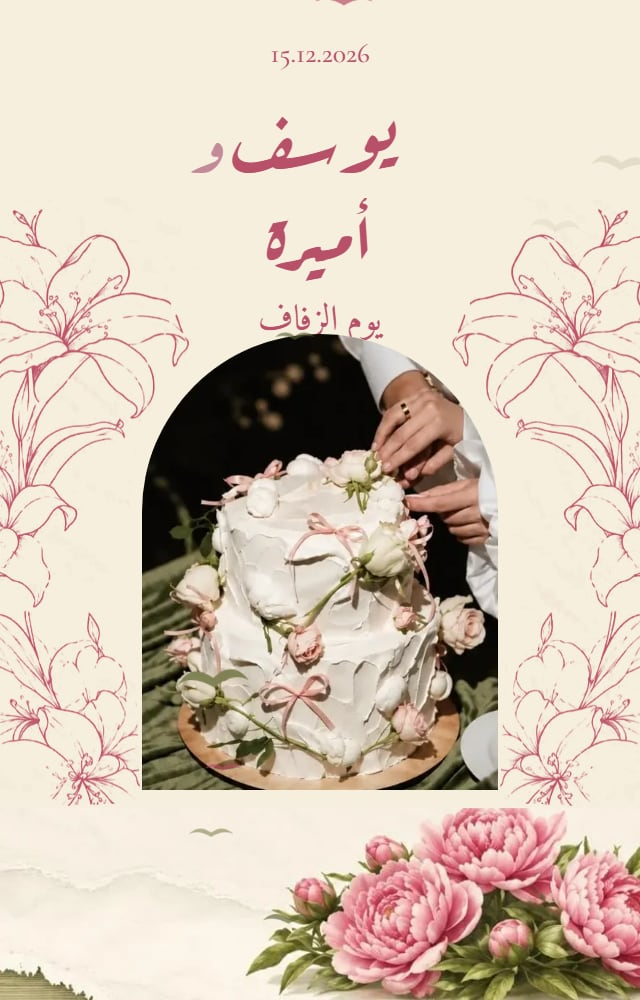
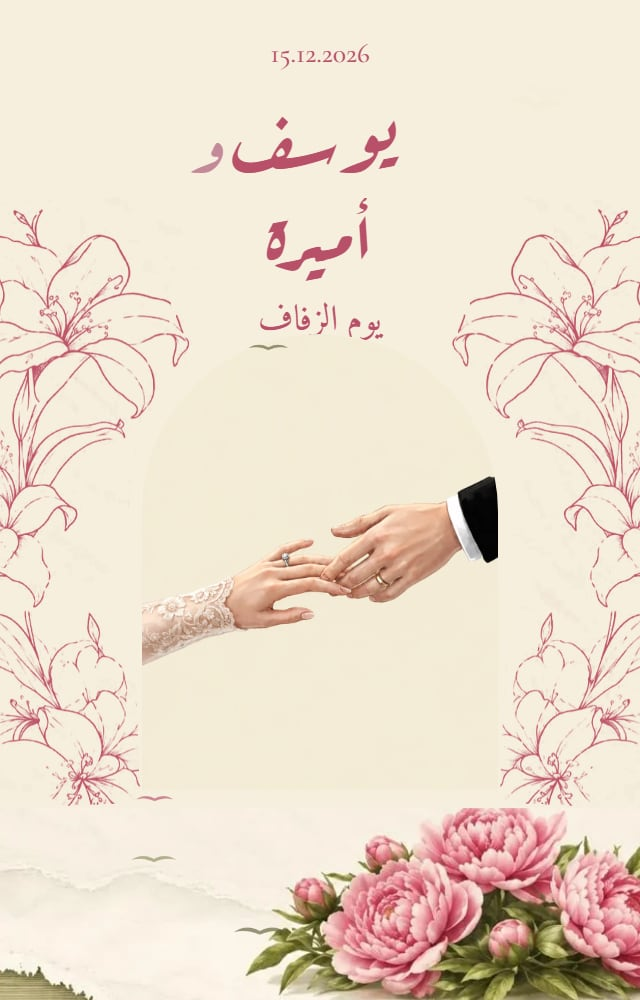
Lily Garden: كل كلمة قابلة للتعديل + صورة الإيدين افتراضية + العداد بيتعدّل بالضغط
- صورة القوس الافتراضية: الإيدين (بدل التورتة)
- كارت الدعوة سطر سطر: كل سطر بيتعدّل لوحده (We invite you / to celebrate / ...)
- العداد: الضغط على الأرقام بيفتح تاريخ وساعة الفرح، والكلام تحتها (Days…) بيتعدّل
- فورم الحضور وقسم الصور: كل كلمة بتتعدّل بالضغط عليها؛ الضغط على الخانات بيفتح بانل الفورم زي ما كان
- الزراير اللي جواها كلام بقت div — المسافة جوه <button> كانت بتقطع الكتابة في المحرر
- المحرر: استثناء #mithaq-rsvp للكلام القابل للتعديل (Ivory Swans مبتتأثرش)

Claude-Session: https://claude.ai/code/session_01V3w9EGxhRcLj3L1x3BQSg9

diff --git a/views/lily-garden.html b/views/lily-garden.html
@@ -1319,6 +1319,7 @@
                 #wg-invite-2 .fam { font-size: 4.6cqw; letter-spacing: .06em; margin-top: 2.4cqw; font-weight: 500; }
                 #wg-invite-2 .body { font-size: 4.3cqw; letter-spacing: .05em; line-height: 1.5; margin-top: 7cqw; font-weight: 500; }
                 #wg-invite-2 .big-date { font-size: 12.5cqw; margin-top: 6cqw; }
+                #wg-invite-2 .wg-line { display: block; margin: 0; }
                 #wg-invite-2 .end { font-size: 3.6cqw; letter-spacing: .04em; line-height: 1.5; margin-top: 5cqw; font-weight: 500; }
 
                 /* ===== الصفحة 3 ===== */
@@ -1393,7 +1394,9 @@
                     box-shadow: 0 10px 22px -10px rgba(85,88,47,.7); transition: background .25s ease, transform .2s ease, opacity .2s ease; -webkit-tap-highlight-color: transparent; }
                 .wg-btn:hover { background: var(--rose); }
                 .wg-btn:active { transform: scale(.98); }
-                .wg-btn:disabled { opacity: .6; cursor: default; }
+                .wg-btn:disabled, .wg-btn[aria-disabled="true"] { opacity: .6; cursor: default; pointer-events: none; }
+                .wg-btn:focus-visible { outline: 2px solid var(--rose); outline-offset: 3px; }
+                .wg-btn { user-select: none; -webkit-user-select: none; }
                 .wg-btn svg { width: 18px; height: 18px; }
                 .wg-err { min-height: 18px; margin: 10px 2px 0; font: 600 14px/1.5 'Cormorant Garamond', 'Amiri', Georgia, serif; color: #b03a3a; text-align: center; }
                 .wg-done { display: none; text-align: center; padding: 6px 4px 2px; }
@@ -1524,7 +1527,7 @@
                     <p class="wg-abs wg-caps date" data-elem-id="lg1" data-wg="date">23.10.2026</p>
                     <h1 class="wg-abs wg-script names"><span class="amp" data-elem-id="lg2" data-wg="name1">Eslam</span><span class="second" data-elem-id="lg3" data-wg="name2">Amira</span></h1>
                     <p class="wg-abs wg-caps wday" data-elem-id="lg4" data-wg="wday">Wedding Day</p>
-                    <div class="arch"><img data-elem-id="lg5" src="/templates/lily-garden/cake.webp" alt="" decoding="async" fetchpriority="high" width="487" height="629"/></div>
+                    <div class="arch"><img data-elem-id="lg5" src="/templates/lily-garden/hands.webp" alt="" decoding="async" fetchpriority="high" width="941" height="1672"/></div>
                 </section>
 
                 <!-- ===== الصفحة 2 ===== -->
@@ -1533,9 +1536,19 @@
                     <div class="card">
                         <p class="wg-script dear" data-elem-id="lg9" data-wg="dear" data-wg-reveal>Dear</p>
                         <p class="wg-caps fam" data-elem-id="lg10" data-wg="fam" data-wg-reveal>Friends &amp; Family!</p>
-                        <p class="wg-caps body" data-elem-id="lg11" data-wg="body" data-wg-reveal>We invite you<br/>to celebrate<br/>the most special day<br/>in our lives &ndash;<br/>our wedding!</p>
+                        <div class="wg-caps body" data-wg-reveal>
+                            <p class="wg-line" data-elem-id="lg40" data-wg="body1">We invite you</p>
+                            <p class="wg-line" data-elem-id="lg41" data-wg="body2">to celebrate</p>
+                            <p class="wg-line" data-elem-id="lg42" data-wg="body3">the most special day</p>
+                            <p class="wg-line" data-elem-id="lg43" data-wg="body4">in our lives &ndash;</p>
+                            <p class="wg-line" data-elem-id="lg44" data-wg="body5">our wedding!</p>
+                        </div>
                         <p class="wg-script big-date" data-elem-id="lg12" data-wg="date" data-wg-reveal>23.10.2026</p>
-                        <p class="wg-caps end" data-elem-id="lg13" data-wg="end" data-wg-reveal>We will be so happy<br/>to share this unforgettable day<br/>with you!</p>
+                        <div class="wg-caps end" data-wg-reveal>
+                            <p class="wg-line" data-elem-id="lg45" data-wg="end1">We will be so happy</p>
+                            <p class="wg-line" data-elem-id="lg46" data-wg="end2">to share this unforgettable day</p>
+                            <p class="wg-line" data-elem-id="lg47" data-wg="end3">with you!</p>
+                        </div>
                     </div>
                 </section>
 
@@ -1555,10 +1568,10 @@
                     <h2 class="wg-script until" data-elem-id="lg19" data-wg="until" data-wg-reveal>Until our special day</h2>
                     <svg class="cd-orn" viewBox="0 0 160 14" fill="none" aria-hidden="true"><path d="M2 7h58M100 7h58" stroke="#c9a46a" stroke-width="1"/><path d="M80 1.5c3 2.7 3 8.3 0 11-3-2.7-3-8.3 0-11Z" fill="#b9506a"/><circle cx="68" cy="7" r="1.6" fill="#c9a46a"/><circle cx="92" cy="7" r="1.6" fill="#c9a46a"/></svg>
                     <div id="wg-countdown" role="timer" aria-label="Countdown to the wedding" data-wg-reveal>
-                        <div class="wg-cd-block"><span class="wg-cd-num" id="wg-cd-d">00</span><span class="wg-cd-label" data-wg-cd="days">Days</span></div>
-                        <div class="wg-cd-block"><span class="wg-cd-num" id="wg-cd-h">00</span><span class="wg-cd-label" data-wg-cd="hours">Hours</span></div>
-                        <div class="wg-cd-block"><span class="wg-cd-num" id="wg-cd-m">00</span><span class="wg-cd-label" data-wg-cd="minutes">Mins</span></div>
-                        <div class="wg-cd-block"><span class="wg-cd-num" id="wg-cd-s">00</span><span class="wg-cd-label" data-wg-cd="seconds">Secs</span></div>
+                        <div class="wg-cd-block"><span class="wg-cd-num" id="days" data-elem-id="lg50">00</span><span class="wg-cd-label" data-elem-id="lg54" data-wg-cd="days">Days</span></div>
+                        <div class="wg-cd-block"><span class="wg-cd-num" id="hours" data-elem-id="lg51">00</span><span class="wg-cd-label" data-elem-id="lg55" data-wg-cd="hours">Hours</span></div>
+                        <div class="wg-cd-block"><span class="wg-cd-num" id="minutes" data-elem-id="lg52">00</span><span class="wg-cd-label" data-elem-id="lg56" data-wg-cd="minutes">Mins</span></div>
+                        <div class="wg-cd-block"><span class="wg-cd-num" id="seconds" data-elem-id="lg53">00</span><span class="wg-cd-label" data-elem-id="lg57" data-wg-cd="seconds">Secs</span></div>
                     </div>
                     <p class="wg-script cd-done" data-wg="cdDone">The celebration has begun</p>
                 </section>
@@ -1576,55 +1589,55 @@
 
                 <!-- ===== تأكيد الحضور ===== -->
                 <section id="mithaq-rsvp" class="wg-panel" aria-labelledby="mrsvp-title">
-                    <p class="wg-eyebrow" data-wg="rsvpEyebrow">R.S.V.P</p>
-                    <h2 class="wg-ptitle" id="mrsvp-title">Will you join us?</h2>
-                    <p class="wg-pintro" id="mrsvp-intro">Kindly let us know if you can make it.</p>
+                    <p class="wg-eyebrow" data-elem-id="lg60" data-wg="rsvpEyebrow">R.S.V.P</p>
+                    <h2 class="wg-ptitle" id="mrsvp-title" data-elem-id="lg61">Will you join us?</h2>
+                    <p class="wg-pintro" id="mrsvp-intro" data-elem-id="lg62">Kindly let us know if you can make it.</p>
                     <div class="wg-card" data-wg-reveal>
                         <form id="mrsvp-form" novalidate="">
                             <label class="wg-field">
-                                <span class="wg-field-label" id="mrsvp-name-lbl">Your name</span>
+                                <span class="wg-field-label" id="mrsvp-name-lbl" data-elem-id="lg63">Your name</span>
                                 <input class="wg-input" type="text" id="mrsvp-name" maxlength="80" autocomplete="name"/>
                             </label>
                             <div class="wg-choice" role="radiogroup">
-                                <label id="mrsvp-yes-lbl"><input type="radio" name="mrsvp-att" value="yes"/><svg viewBox="0 0 24 24" fill="none" stroke="currentColor" stroke-width="1.6" stroke-linecap="round" stroke-linejoin="round"><path d="M12 20.5s-7.5-4.6-7.5-10.1A4.4 4.4 0 0 1 12 7.6a4.4 4.4 0 0 1 7.5 2.8c0 5.5-7.5 10.1-7.5 10.1Z"/></svg><span>Joyfully accepts</span></label>
-                                <label id="mrsvp-no-lbl"><input type="radio" name="mrsvp-att" value="no"/><svg viewBox="0 0 24 24" fill="none" stroke="currentColor" stroke-width="1.6" stroke-linecap="round" stroke-linejoin="round"><path d="M7 14.5c1.3-1.3 3-2 5-2s3.7.7 5 2"/><circle cx="12" cy="12" r="9"/><path d="M9 9.5h.01M15 9.5h.01"/></svg><span>Regretfully declines</span></label>
+                                <label id="mrsvp-yes-lbl"><input type="radio" name="mrsvp-att" value="yes"/><svg viewBox="0 0 24 24" fill="none" stroke="currentColor" stroke-width="1.6" stroke-linecap="round" stroke-linejoin="round"><path d="M12 20.5s-7.5-4.6-7.5-10.1A4.4 4.4 0 0 1 12 7.6a4.4 4.4 0 0 1 7.5 2.8c0 5.5-7.5 10.1-7.5 10.1Z"/></svg><span data-elem-id="lg64">Joyfully accepts</span></label>
+                                <label id="mrsvp-no-lbl"><input type="radio" name="mrsvp-att" value="no"/><svg viewBox="0 0 24 24" fill="none" stroke="currentColor" stroke-width="1.6" stroke-linecap="round" stroke-linejoin="round"><path d="M7 14.5c1.3-1.3 3-2 5-2s3.7.7 5 2"/><circle cx="12" cy="12" r="9"/><path d="M9 9.5h.01M15 9.5h.01"/></svg><span data-elem-id="lg65">Regretfully declines</span></label>
                             </div>
                             <label class="wg-field">
-                                <span class="wg-field-label" id="mrsvp-note-lbl">A message for the couple</span>
+                                <span class="wg-field-label" id="mrsvp-note-lbl" data-elem-id="lg66">A message for the couple</span>
                                 <textarea class="wg-input" id="mrsvp-note" maxlength="200"></textarea>
                             </label>
-                            <button type="submit" class="wg-btn" id="mrsvp-submit">Send</button>
+                            <div role="button" tabindex="0" class="wg-btn" id="mrsvp-submit"><span id="mrsvp-submit-txt" data-elem-id="lg67">Send</span></div>
                             <p class="wg-err" id="mrsvp-err" role="alert"></p>
                         </form>
                         <div class="wg-done" id="mrsvp-done">
                             <div class="wg-done-mark"><svg viewBox="0 0 24 24" fill="none" stroke="currentColor" stroke-width="2" stroke-linecap="round" stroke-linejoin="round"><path d="M5 12.5l4.5 4.5L19 7.5"/></svg></div>
-                            <h3 id="mrsvp-done-title">Thank you</h3>
-                            <p id="mrsvp-done-msg">Your response has been received.</p>
+                            <h3 id="mrsvp-done-title" data-elem-id="lg68">Thank you</h3>
+                            <p id="mrsvp-done-msg" data-elem-id="lg69">Your response has been received.</p>
                         </div>
                     </div>
                 </section>
 
                 <!-- ===== صور الضيوف ===== -->
                 <section id="mithaq-photos" class="wg-panel" aria-labelledby="wgp-title">
-                    <p class="wg-eyebrow" data-wg="photosEyebrow">Our album</p>
-                    <h2 class="wg-ptitle" id="wgp-title" data-wg="photosTitle">Share the moments</h2>
-                    <p class="wg-pintro" data-wg="photosIntro">Took photos at our celebration? Add them here so we can keep every beautiful moment.</p>
+                    <p class="wg-eyebrow" data-elem-id="lg70" data-wg="photosEyebrow">Our album</p>
+                    <h2 class="wg-ptitle" id="wgp-title" data-elem-id="lg71" data-wg="photosTitle">Share the moments</h2>
+                    <p class="wg-pintro" data-elem-id="lg72" data-wg="photosIntro">Took photos at our celebration? Add them here so we can keep every beautiful moment.</p>
                     <div class="wg-card" data-wg-reveal>
                         <div class="wgp-actions">
                             <label class="wg-field" id="wgp-name-wrap">
-                                <span class="wg-field-label" data-wg="photosName">Your name</span>
+                                <span class="wg-field-label" data-elem-id="lg73" data-wg="photosName">Your name</span>
                                 <input class="wg-input" type="text" id="wgp-name" maxlength="60" autocomplete="name"/>
                             </label>
                             <input class="wgp-file" type="file" id="wgp-file" accept="image/jpeg,image/png,image/webp,image/heic,image/heif,image/*" multiple/>
-                            <button type="button" class="wg-btn" id="wgp-add"><svg viewBox="0 0 24 24" fill="none" stroke="currentColor" stroke-width="1.8" stroke-linecap="round" stroke-linejoin="round"><path d="M4 8.5A2.5 2.5 0 0 1 6.5 6h1.7l1.3-2h5l1.3 2h1.7A2.5 2.5 0 0 1 20 8.5v9A2.5 2.5 0 0 1 17.5 20h-11A2.5 2.5 0 0 1 4 17.5Z"/><circle cx="12" cy="13" r="3.6"/></svg><span data-wg="photosAdd">Add your photos</span></button>
+                            <div role="button" tabindex="0" class="wg-btn" id="wgp-add"><svg viewBox="0 0 24 24" fill="none" stroke="currentColor" stroke-width="1.8" stroke-linecap="round" stroke-linejoin="round"><path d="M4 8.5A2.5 2.5 0 0 1 6.5 6h1.7l1.3-2h5l1.3 2h1.7A2.5 2.5 0 0 1 20 8.5v9A2.5 2.5 0 0 1 17.5 20h-11A2.5 2.5 0 0 1 4 17.5Z"/><circle cx="12" cy="13" r="3.6"/></svg><span data-elem-id="lg74" data-wg="photosAdd">Add your photos</span></div>
                         </div>
                         <p class="wg-err" id="wgp-err" role="alert"></p>
-                        <p class="wgp-note" id="wgp-note" data-wg="photosNote">Your photos appear here for everyone. You can delete your own photos any time.</p>
+                        <p class="wgp-note" id="wgp-note" data-elem-id="lg75" data-wg="photosNote">Your photos appear here for everyone. You can delete your own photos any time.</p>
                     </div>
                     <p class="wgp-count" id="wgp-count" hidden></p>
                     <div class="wgp-grid" id="wgp-grid"></div>
-                    <p class="wgp-empty" id="wgp-empty" data-wg="photosEmpty" hidden>Be the first to share a moment</p>
-                    <button type="button" class="wg-btn wgp-more" id="wgp-more" hidden><span data-wg="photosMore">Show more</span></button>
+                    <p class="wgp-empty" id="wgp-empty" data-elem-id="lg76" data-wg="photosEmpty" hidden>Be the first to share a moment</p>
+                    <div role="button" tabindex="0" class="wg-btn wgp-more" id="wgp-more" hidden><span data-elem-id="lg77" data-wg="photosMore">Show more</span></div>
                 </section>
 
                 <!-- ===== الختام ===== -->
@@ -1665,9 +1678,9 @@
                 var T = {
                     en: {
                         dear: 'Dear', fam: 'Friends &amp; Family!',
-                        body: ENG ? 'We invite you<br>to celebrate<br>a beautiful beginning<br>in our lives &ndash;<br>our engagement!'
-                                  : 'We invite you<br>to celebrate<br>the most special day<br>in our lives &ndash;<br>our wedding!',
-                        end: 'We will be so happy<br>to share this unforgettable day<br>with you!',
+                        body: ENG ? ['We invite you', 'to celebrate', 'a beautiful beginning', 'in our lives &ndash;', 'our engagement!']
+                                  : ['We invite you', 'to celebrate', 'the most special day', 'in our lives &ndash;', 'our wedding!'],
+                        end: ['We will be so happy', 'to share this unforgettable day', 'with you!'],
                         tv: 'Time &amp; Venue', until: 'Until our special day', cdDone: 'The celebration has begun',
                         cd: { days: 'Days', hours: 'Hours', minutes: 'Mins', seconds: 'Secs' },
                         location: 'Location', directions: 'Get Directions',
@@ -1692,9 +1705,9 @@
                     },
                     ar: {
                         dear: 'أحبابنا', fam: 'الأهل والأصدقاء',
-                        body: ENG ? 'ندعوكم لمشاركتنا<br>بداية أجمل حكاية في حياتنا<br>حفل خطوبتنا'
-                                  : 'ندعوكم لمشاركتنا<br>أسعد أيام عمرنا<br>حفل زفافنا',
-                        end: 'سيكتمل فرحنا بوجودكم<br>ومشاركتكم هذا اليوم الذي لا يُنسى',
+                        body: ENG ? ['ندعوكم لمشاركتنا', 'بداية أجمل حكاية في حياتنا', 'حفل خطوبتنا']
+                                  : ['ندعوكم لمشاركتنا', 'أسعد أيام عمرنا', 'حفل زفافنا'],
+                        end: ['سيكتمل فرحنا بوجودكم', 'ومشاركتكم هذا اليوم الذي لا يُنسى'],
                         tv: 'الموعد والمكان', until: 'باقي على يومنا المميز', cdDone: 'بدأ الاحتفال',
                         cd: { days: 'يوم', hours: 'ساعة', minutes: 'دقيقة', seconds: 'ثانية' },
                         location: 'الموقع', directions: 'اعرف الطريق',
@@ -1736,6 +1749,16 @@
                     });
                 }
                 function pad(n) { return n < 10 ? '0' + n : '' + n; }
+                // زراير div (مش <button>): الضغط + Enter/Space من الكيبورد
+                function onPress(el, fn) {
+                    if (!el) return;
+                    el.addEventListener('click', function (e) { if (el.getAttribute('aria-disabled') === 'true') return; fn(e); });
+                    el.addEventListener('keydown', function (e) {
+                        if (e.target !== el) return; // الكتابة جوه الزرار في المحرر متتأثرش
+                        if (e.key === 'Enter' || e.key === ' ') { e.preventDefault(); if (el.getAttribute('aria-disabled') !== 'true') fn(e); }
+                    });
+                }
+                function setBusy(el, on) { if (el) el.setAttribute('aria-disabled', on ? 'true' : 'false'); }
 
                 /* ---------- البيانات ---------- */
                 var cd = C.countdown || {};
@@ -1762,7 +1785,17 @@
                     if (first) setText('[data-wg="name1"]', first);
                     if (second) setText('[data-wg="name2"]', second);
                     setText('[data-wg="wday"]', L.wday);
-                    ['dear', 'fam', 'body', 'end', 'tv', 'until', 'cdDone', 'location', 'directions', 'rsvpEyebrow',
+                    // سطور الكارت: كل سطر عنصر لوحده (العربي سطوره أقل — اللي ملوش كلام بيستخبى)
+                    [['body', 5], ['end', 3]].forEach(function (pair) {
+                        var lines = L[pair[0]] || [];
+                        for (var i = 1; i <= pair[1]; i++) {
+                            var el = box.querySelector('[data-wg="' + pair[0] + i + '"]');
+                            if (!el) continue;
+                            if (lines[i - 1]) { el.innerHTML = lines[i - 1]; el.style.display = ''; }
+                            else { el.textContent = ''; el.style.display = 'none'; }
+                        }
+                    });
+                    ['dear', 'fam', 'tv', 'until', 'cdDone', 'location', 'directions', 'rsvpEyebrow',
                      'photosEyebrow', 'photosTitle', 'photosIntro', 'photosName', 'photosAdd', 'photosMore', 'photosNote',
                      'photosEmpty', 'photosDownload', 'closing'].forEach(function (k) { setText('[data-wg="' + k + '"]', L[k], true); });
                     setText('[data-wg="venue"]', C.venueName);
@@ -1847,8 +1880,8 @@
                 if (!noCountdown) (function () {
                     var target = Date.parse(C.weddingDateTimeISO || '') || Date.parse('2026-10-23T19:00:00+03:00');
                     var sec4 = document.getElementById('wg-invite-4');
-                    var els = { d: document.getElementById('wg-cd-d'), h: document.getElementById('wg-cd-h'),
-                                m: document.getElementById('wg-cd-m'), s: document.getElementById('wg-cd-s') };
+                    var els = { d: document.getElementById('days'), h: document.getElementById('hours'),
+                                m: document.getElementById('minutes'), s: document.getElementById('seconds') };
                     var last = {};
                     var timer = null;
                     function put(k, v) {
@@ -1879,12 +1912,13 @@
                     var done = document.getElementById('mrsvp-done');
                     var err = document.getElementById('mrsvp-err');
                     var btn = document.getElementById('mrsvp-submit');
+                    var btnTxt = document.getElementById('mrsvp-submit-txt');
                     function lbl(id, v) { var e = document.getElementById(id); if (e && v) e.textContent = v; }
                     lbl('mrsvp-title', OV.title || L.rsvpTitle);
                     lbl('mrsvp-intro', OV.intro || L.rsvpIntro);
                     lbl('mrsvp-name-lbl', OV.nameLabel || L.nameLabel);
                     lbl('mrsvp-note-lbl', OV.foodLabel || L.noteLabel);
-                    lbl('mrsvp-submit', OV.submit || L.submit);
+                    lbl('mrsvp-submit-txt', OV.submit || L.submit);
                     lbl('mrsvp-done-title', L.doneTitle);
                     lbl('mrsvp-done-msg', L.doneMsg);
                     var yes = document.querySelector('#mrsvp-yes-lbl span'), no = document.querySelector('#mrsvp-no-lbl span');
@@ -1898,8 +1932,9 @@
                     if (!C.autoOpen && shortId) {
                         try { if (localStorage.getItem(key)) { showDone(); return; } } catch (e) { /* تصفح خاص */ }
                     }
-                    form.addEventListener('submit', function (ev) {
-                        ev.preventDefault();
+                    form.addEventListener('submit', function (ev) { ev.preventDefault(); send(); });
+                    onPress(btn, function () { send(); });
+                    function send() {
                         var name = (document.getElementById('mrsvp-name').value || '').trim();
                         var att = (form.querySelector('input[name=mrsvp-att]:checked') || {}).value;
                         var note = (document.getElementById('mrsvp-note').value || '').trim();
@@ -1907,20 +1942,20 @@
                         if (!name) { err.textContent = L.errName; return; }
                         if (!att) { err.textContent = L.errAtt; return; }
                         if (!shortId) { err.textContent = L.errPreview; return; }
-                        var label = btn.textContent;
-                        btn.disabled = true; btn.textContent = L.sending;
+                        var label = btnTxt.textContent;
+                        setBusy(btn, true); btnTxt.textContent = L.sending;
                         fetch('/i/' + encodeURIComponent(shortId) + '/rsvp', {
                             method: 'POST', headers: { 'Content-Type': 'application/json' },
                             body: JSON.stringify({ guestName: name, attending: att, note: note })
                         }).then(function (r) { return r.json().catch(function () { return {}; }).then(function (j) { return { ok: r.ok, j: j }; }); })
                           .then(function (res) {
-                              if (!res.ok) { err.textContent = (res.j && res.j.error) || L.errNet; btn.disabled = false; btn.textContent = label; return; }
+                              if (!res.ok) { err.textContent = (res.j && res.j.error) || L.errNet; setBusy(btn, false); btnTxt.textContent = label; return; }
                               try { localStorage.setItem(key, '1'); } catch (e) { /* */ }
                               showDone();
                               done.scrollIntoView({ behavior: 'smooth', block: 'center' });
                           })
-                          .catch(function () { err.textContent = L.errNet; btn.disabled = false; btn.textContent = label; });
-                    });
+                          .catch(function () { err.textContent = L.errNet; setBusy(btn, false); btnTxt.textContent = label; });
+                    }
                 })();
 
                 /* ---------- صور الضيوف ----------
@@ -2083,7 +2118,7 @@
                         });
                     }
 
-                    addBtn.addEventListener('click', function () {
+                    onPress(addBtn, function () {
                         errEl.textContent = '';
                         if (!shortId) { errEl.textContent = L.errPhotoPreview; return; }
                         if (!nameIn.value.trim()) { errEl.textContent = L.errPhotoName; nameIn.focus(); return; }
@@ -2107,7 +2142,7 @@
                             jobs.push({ file: f, ph: ph });
                         });
                         render();
-                        addBtn.disabled = true;
+                        setBusy(addBtn, true);
                         // واحدة ورا التانية: أخف على نت الموبايل في القاعة، والترتيب بيفضل صح
                         var failed = 0;
                         jobs.reduce(function (p, job) {
@@ -2116,12 +2151,12 @@
                                     .then(function (ok) { if (!ok) failed++; });
                             });
                         }, Promise.resolve()).then(function () {
-                            addBtn.disabled = false;
+                            setBusy(addBtn, false);
                             if (failed && !errEl.textContent) errEl.textContent = L.errPhotoFail;
                             render();
                         });
                     });
-                    moreBtn.addEventListener('click', function () { load(true); });
+                    onPress(moreBtn, function () { load(true); });
 
                     /* ---- عرض الصورة كبيرة ---- */
                     var lb = document.getElementById('wgp-lightbox');

diff --git a/client/public/editor-runtime.js b/client/public/editor-runtime.js
@@ -575,6 +575,14 @@
     // بانل تعديل الفورم على اليمين على طول — العميل عايز يعدّل كلام كل مدخل
     // ويشيل مدخلات من هناك، مش يكتب جوه الفورم مباشرة (ده بيكسر تركيبه).
     var rsvpHost = e.target.closest && e.target.closest('#wdaRsvpForm, #rsvpBtn, #mithaq-rsvp');
+    // استثناء: فورم #mithaq-rsvp اللي كلامه عناصر قابلة للتعديل (Lily Garden —
+    // كل كلمة فيه عليها data-elem-id). الضغط على الكلام نفسه بيكتب فيه زي أي
+    // نص، والضغط على باقي الفورم (الخانات/الكارت) بيفتح بانل الفورم زي ما كان.
+    // Ivory Swans كلام فورمها من غير data-elem-id، فمبيتأثرش.
+    if (rsvpHost && rsvpHost.id === 'mithaq-rsvp') {
+      var innerText = editableAtPoint(e.clientX, e.clientY);
+      if (innerText && rsvpHost.contains(innerText)) rsvpHost = null;
+    }
     if (rsvpHost) {
       e.preventDefault();
       e.stopPropagation();
